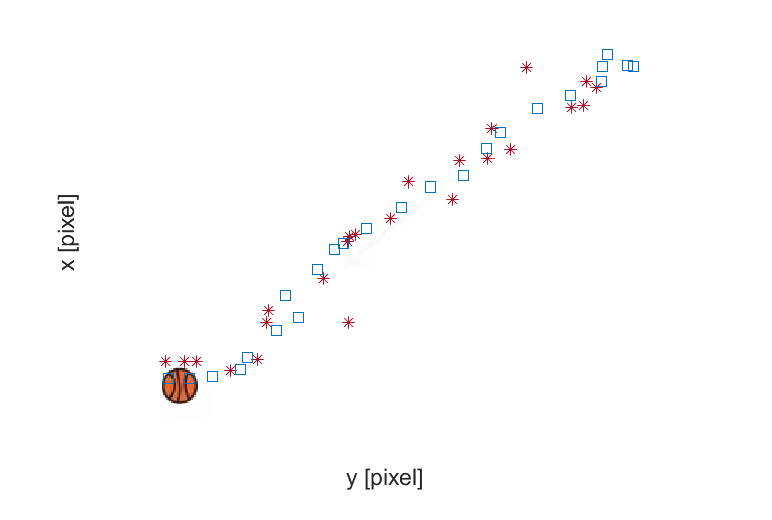
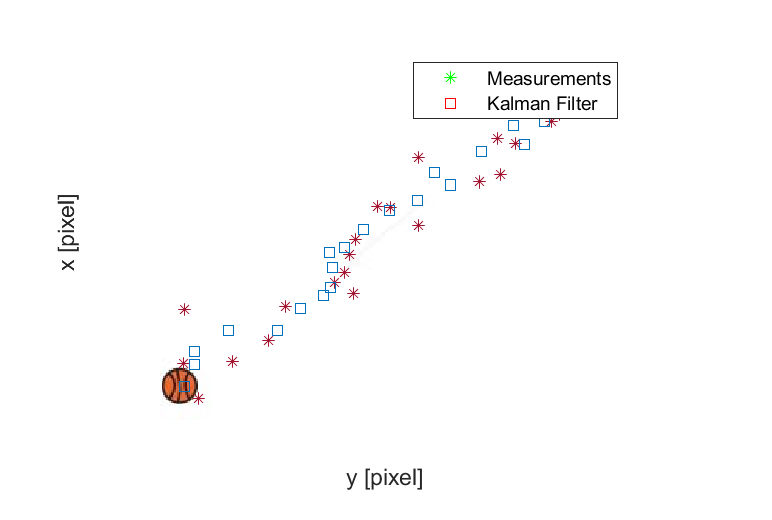
2023-01-31

diff --git a/Matlab/Kalman_Filter(Object Tracking)/TestTrackKalman.m b/Matlab/Kalman_Filter(Object Tracking)/TestTrackKalman.m
@@ -26,5 +26,6 @@ plot(Xmsaved(1, :), Xmsaved(2, :), '*');
 plot(Xhsaved(1, :), Xhsaved(2, :), 's');
 xlabel('y [pixel]');
 ylabel('x [pixel]');
-grid on;
+legend('Measurements', 'Kalman Filter')
 set(gca, 'yDir', 'reverse');
+saveas(gcf,'result.png')

diff --git a/Matlab/Kalman_Filter(Object Tracking)/TrackKalman.m b/Matlab/Kalman_Filter(Object Tracking)/TrackKalman.m
@@ -6,11 +6,7 @@ persistent firstRun
 
 if isempty(firstRun)
     dt = 1; % 1 Hz
-    
-    %{
-    posx_(k+1) = (posx + velx * dt)
-    posy_(k+1) = (posy + vely * dt)
-    %}
+
     A = [1, dt, 0, 0
          0, 1, 0, 0
          0, 0, 1, dt
